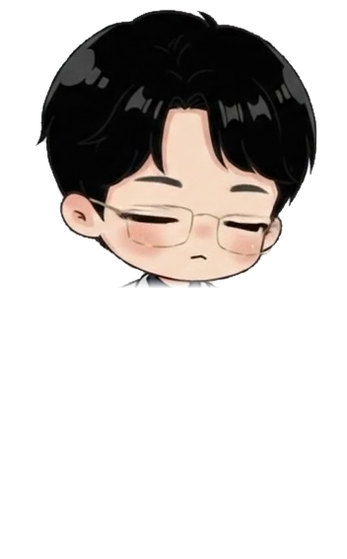
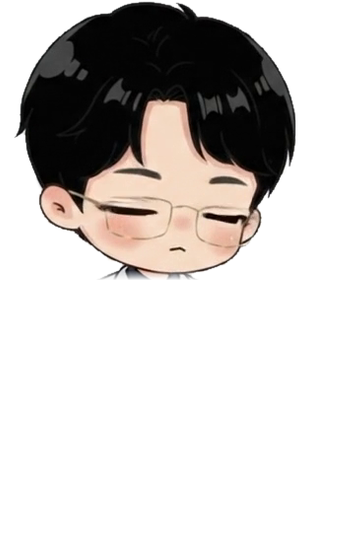
Align character sprites and remove ghosting

Changed region(s): [[0.0288, 0.0, 0.9222, 0.517]]

diff --git a/Mr.Doc – Health Copilot (3).html b/Mr.Doc – Health Copilot (3).html
@@ -499,7 +499,7 @@
         width: 100%;
         height: 100%;
         opacity: 0;
-        transition: opacity 0.25s ease-in-out;
+        transition: none;
         pointer-events: none;
       }
       #bd img.on {
@@ -512,7 +512,7 @@
         width: 100%;
         height: 100%;
         opacity: 0;
-        transition: opacity 0.03s linear;
+        transition: none;
         pointer-events: none;
       }
       #hd img.on {
@@ -3351,18 +3351,12 @@
         color: #fff;
       }
 
-      /* Soft, stable character motion and deliberate sprite crossfades. */
+      /* Switch complete sprite frames without blended ghost images. */
       #bd img {
-        transition: opacity 0.32s cubic-bezier(0.22, 0.61, 0.36, 1);
+        transition: none !important;
       }
       #hd img {
-        transition: opacity 0.12s cubic-bezier(0.22, 0.61, 0.36, 1);
-      }
-      #hd[data-mode="speak"] img {
-        transition-duration: 0.085s;
-      }
-      #hd[data-frame="blink"] img {
-        transition-duration: 0.07s;
+        transition: none !important;
       }
       [data-mode="idle"] .char {
         animation-duration: 5.2s;

diff --git a/styles.css b/styles.css
@@ -434,13 +434,13 @@ input:focus, textarea:focus {
 
 #bd img {
   position: absolute; inset: 0; width: 100%; height: 100%;
-  opacity: 0; transition: opacity .18s ease-in-out; pointer-events: none;
+  opacity: 0; transition: none !important; pointer-events: none;
 }
 #bd img.on { opacity: 1; }
 
 #hd img {
   position: absolute; inset: 0; width: 100%; height: 100%;
-  opacity: 0; transition: opacity .075s ease-out; pointer-events: none;
+  opacity: 0; transition: none !important; pointer-events: none;
 }
 #hd img.on { opacity: 1; }
 
